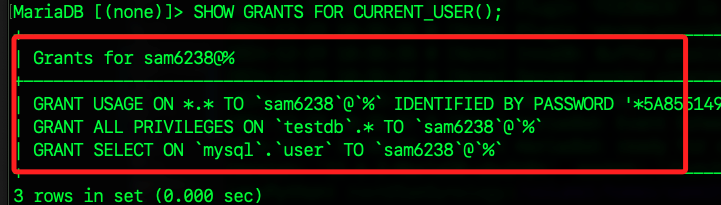
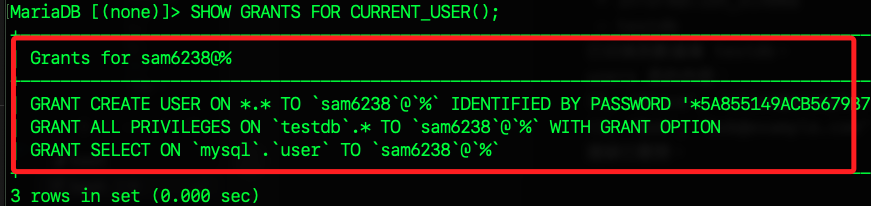
Commit on 2024-12-29 19:09:54

Changed region(s): [[0.0, 0.1463, 1.0, 0.878], [0.0, 0.0, 0.7018, 0.1171], [0.0, 0.9073, 0.3662, 0.9951]]

diff --git a/I01_購物/02_Line 購物/02_安裝資料庫.md b/I01_購物/02_Line 購物/02_安裝資料庫.md
@@ -280,20 +280,34 @@ GRANT SELECT ON mysql.user TO 'sam6238'@'%';
 FLUSH PRIVILEGES;
 ```
 
-5. 授予全部權限。
+5. 授予 `全部權限`，特別注意，這個 `全部` 也是有範圍的。
 
 ```sql
 GRANT ALL PRIVILEGES ON testdb.* TO 'sam6238'@'%';
 FLUSH PRIVILEGES;
 ```
 
-6. 再次切換帳號。
+6. 授予 `CREATE USER` 權限；特別強調，前面的 `ALL PRIVILEGES` 並不包含建立使用者的權限。
+
+```sql
+GRANT CREATE USER ON *.* TO 'sam6238'@'%';
+FLUSH PRIVILEGES;
+```
+
+7. 還要授予 `GRANT OPTION` 權限給 sam6238。
+
+```sql
+GRANT ALL PRIVILEGES ON testdb.* TO 'sam6238'@'%' WITH GRANT OPTION;
+FLUSH PRIVILEGES;
+```
+
+8. 再次切換帳號。
 
     ```sql
     \! mariadb -u sam6238 -p
     ```
 
-7. 查看當前用戶是否擁有足夠的權限；以下將顯示當前用戶 `sam6238@%` 的所有權限。
+9. 查看當前用戶是否擁有足夠的權限；以下將顯示當前用戶 `sam6238@%` 的所有權限。
 
     ```sql
     SHOW GRANTS FOR CURRENT_USER();
@@ -307,14 +321,6 @@ FLUSH PRIVILEGES;
 
     ```sql
     SELECT User, Host FROM mysql.user;
-    ```
-
-<br>
-
-2. 若要刪除帳號 `sam6239`。
-
-    ```sql
-    DROP USER IF EXISTS 'sam6239'@'%';
     ```
 
 <br>
@@ -333,10 +339,19 @@ FLUSH PRIVILEGES;
 5. 確認用戶是否正確建立。
 
     ```sql
-    SELECT User, Host, Plugin FROM mysql.user WHERE User = 'sam6238';
+    SELECT User, Host, Plugin FROM mysql.user WHERE User = 'sam6239';
     ```
 
 <br>
+
+2. 若要刪除帳號 `sam6239`。
+
+    ```sql
+    DROP USER IF EXISTS 'sam6239'@'%';
+    ```
+
+<br>
+
 
 ## 安裝
 
